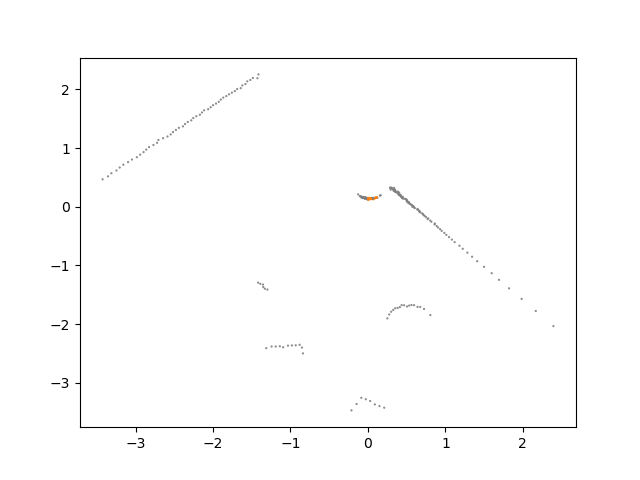
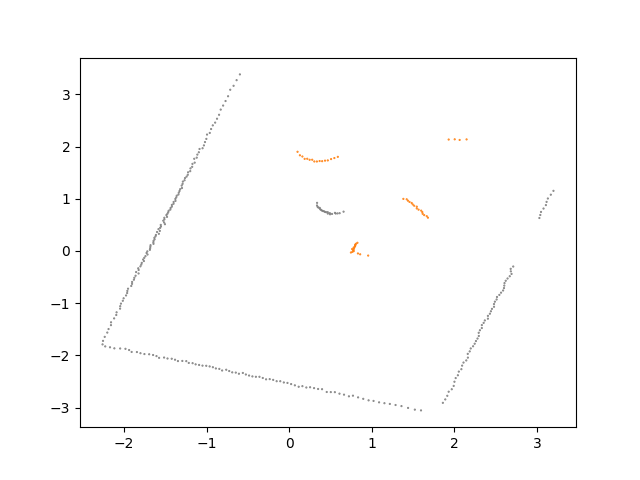
Started state registry

diff --git a/src/objectDetector.py b/src/objectDetector.py
@@ -21,11 +21,13 @@ class ObjectDetector:
         self.traj_pub = rospy.Publisher('trajectory', Path, queue_size=1000)
         self.traj_msg = Path()
 
+        self.precision = 0.01
+        self.places = 2
+
     def laser_callback(self, msg):
-        x, y = self.generate_pc(msg.ranges, msg.range_min, msg.range_max, msg.angle_increment)
-        clusters = self.segment_pc(x, y, msg.range_min)
-        classification = self.detect_objs(x, y, clusters)
-        self.plot_clusters(x, y, clusters, classification)
+        self.x, self.y = self.generate_pc(msg.ranges, msg.range_min, msg.range_max, msg.angle_increment)
+        self.clusters = self.segment_pc(self.x, self.y, msg.range_min)
+        self.plot_clusters(self.x, self.y, self.clusters)
 
     def odom_callback(self, msg):
         pose = PoseStamped()
@@ -49,70 +51,97 @@ class ObjectDetector:
 
         return x, y
 
+    def exclude_walls(self, x_, y_, clusters_):
+        x, y = [], []
+        tmp_x, tmp_y = [], []
+        clusters, tmp_clusters = [], []
+        cur_cluster = clusters_[0]
+        cur_cluster_size = 0
+        for x_coord, y_coord, elem in zip(x_, y_, clusters_):
+            if elem == cur_cluster:
+                cur_cluster_size += 1
+                tmp_x.append(x_coord)
+                tmp_y.append(y_coord)
+                tmp_clusters.append(elem)
+            else:
+                if cur_cluster_size < 15:
+                    x.extend(tmp_x)
+                    y.extend(tmp_y)
+                    clusters.extend(tmp_clusters)
+                tmp_x = []
+                tmp_y = []
+                tmp_clusters = []
+                cur_cluster_size = 1
+                cur_cluster = elem
+        if cur_cluster_size < 15:
+            x.extend(tmp_x)
+            y.extend(tmp_y)
+            clusters.extend(tmp_clusters)
+        return x, y, clusters
+
     def transform_to_img(self, x, y):
-        max_x = int(max(x))
-        min_x = int(min(x))
-        max_y = int(max(y))
-        min_y = int(min(y))
+        import math
 
-        length = max_x - min_x
-        height = max_y - min_y
+        min_x = round(min(x), self.places)
+        min_y = round(min(y), self.places)
 
-        image = np.zeros((length, height))
+        # Transform points to 0+ scale
+        x_, y_ = [], []
+        for x_coord, y_coord in zip(x, y):
+            x_coord = round(x_coord, self.places) + abs(min_x)
+            y_coord = round(y_coord, self.places) + abs(min_y)
+            x_.append(x_coord)
+            y_.append(y_coord)
 
-        for x_idx, y_idx in zip(x, y):
-            # Indexes must be integers
-            x_idx = int(x_idx)
-            y_idx = int(y_idx)
-            image[x_idx, y_idx] = 255
+        # Calculate length, height
+        max_x_ = max(x_)
+        max_y_ = max(y_)
 
-        return image
+        # Get up to desired precision
+        length = int(max_x_ / self.precision)
+        height = int(max_y_ / self.precision)
+        image = np.zeros((length + 1, height + 1), dtype=np.float16)
+
+        # Calculate buckets and image coords
+        bucket_cap_l = int(length / max_x_)
+        bucket_cap_h = int(height / max_y_)
+
+        # Create a dictionary to save correspondence image coordinates -> pointcloud coordinates
+        img_pc_coords = {}
+        for x_coord, y_coord in zip(x_, y_):
+            # Get buckets
+            x_bucket = int(x_coord)
+            y_bucket = int(y_coord)
+
+            x_idx = math.modf(x_coord)[0] * bucket_cap_l
+            y_idx = math.modf(y_coord)[0] * bucket_cap_h
+
+            x_img_coord = x_bucket * bucket_cap_l + int(x_idx)
+            y_img_coord = y_bucket * bucket_cap_h + int(y_idx)
+            
+            assert type(x_img_coord) is int
+            assert type(y_img_coord) is int
+            image[x_img_coord, y_img_coord] = 255
+            key = (x_img_coord, y_img_coord)
+            img_pc_coords[key] = (x_coord, y_coord)
+
+        return image, img_pc_coords
 
     def segment_pc(self, x, y, range_min):
         X = np.array((x, y)).T
 
-        from skimage.transform import hough_line, hough_line_peaks
-        image = self.transform_to_img(x, y)
-        tested_angles = np.linspace(-np.pi / 2, np.pi / 2, 360, endpoint=False)
-        h, theta, d = hough_line(image, theta=tested_angles)
-
-        # Generating figure 1
-        import matplotlib.pyplot as plt
-        from matplotlib import cm
-        fig, axes = plt.subplots(1, 3, figsize=(15, 6))
-        ax = axes.ravel()
-
-        ax[0].imshow(image, cmap=cm.gray)
-        ax[0].set_title('Input image')
-        ax[0].set_axis_off()
-
-        angle_step = 0.5 * np.diff(theta).mean()
-        d_step = 0.5 * np.diff(d).mean()
-        bounds = [np.rad2deg(theta[0] - angle_step),
-                np.rad2deg(theta[-1] + angle_step),
-                d[-1] + d_step, d[0] - d_step]
-        ax[1].imshow(np.log(1 + h), extent=bounds, cmap=cm.gray, aspect=1 / 1.5)
-        ax[1].set_title('Hough transform')
-        ax[1].set_xlabel('Angles (degrees)')
-        ax[1].set_ylabel('Distance (pixels)')
-        ax[1].axis('image')
-
-        ax[2].imshow(image, cmap=cm.gray)
-        ax[2].set_ylim((image.shape[0], 0))
-        ax[2].set_axis_off()
-        ax[2].set_title('Detected lines')
-
-        for _, angle, dist in zip(*hough_line_peaks(h, theta, d)):
-            (x0, y0) = dist * np.array([np.cos(angle), np.sin(angle)])
-            ax[2].axhline((x0, y0), slope=np.tan(angle + np.pi/2))
-
-        plt.tight_layout()
-        fig.savefig('./src/deep-rl-pusher/resources/look.png')
-        plt.close(fig)
-        
         from sklearn.cluster import DBSCAN
         cluster = DBSCAN(eps=range_min*2, min_samples=3).fit(X)
         return cluster.labels_
+
+    def find_cylinder(self, plot=False):
+        x, y, clusters = self.exclude_walls(self.x, self.y, self.clusters)
+        image, img_pc_coords = self.transform_to_img(x, y)
+        
+        if plot:
+            self.plot_pc_img(image)
+        cx, cy, radii = self.hough_transform(image)
+        return self.transform_area_to_pc(cx, cy, radii, img_pc_coords)
 
     def detect_objs(self, x, y, clusters):
         nr_clusters = (max(clusters) + 1)
@@ -130,28 +159,27 @@ class ObjectDetector:
         return classification
 
     # Return True if circle, False if line
-    def hough_transform(self, edges):
-        from skimage.transform import probabilistic_hough_line, hough_circle
-        from skimage.feature import peak_local_max
-        
-        #lines = probabilistic_hough_line(edges, threshold=10, line_length=5, line_gap=3)
-        hough_radii = np.arange(0.08, 1, 0.02)
-        lines = hough_circle(edges, hough_radii)
-        #print("Lines - {}".format(lines))
-        # TODO: check peak?
-        #print(len(list(lines)))
-        if list(lines):
-            #if len(lines) > 2:
-            #    return False
-            return True
-        else:
-            return False
+    def hough_transform(self, image, plot=False):
+        from skimage.transform import hough_circle, hough_circle_peaks
+        factor = 10**self.places
+        hough_radii = np.arange(0.08*2*factor, 0.5*2*factor, 0.02*2*factor)
+        res = hough_circle(image, hough_radii)
+        # Extract the peak as we only want the closest cylinder 
+        # (and the closest cylinder will have the largest amount of points and less noisy data)
+        accums, cx, cy, radii = hough_circle_peaks(res, hough_radii,
+                                        total_num_peaks=1)
+        if plot:
+            self.plot_hough_circle(image, cx, cy, radii)
+        return cx, cy, radii
 
-        # Another idea:
-        # Calculate curvature of the points in the cluster
-        # 1st : Sample 3 points from the cluster (first, last, middle)?
-        # 2nd : c (p1, p2, p3) = 4*A(area of the triangle created by the 3 points) / d(p1-p2)*d(p2-p3)*d(p3-p1)
-        # Curvature larger than a threshold is a line (lines are infinite curvatures)
+    def transform_area_to_pc(self, cx, cy, radii, img_pc_coords):
+        x = [], y = []
+        for img_coords, pc_coords in img_pc_coords.items():
+            # Point is in the selected area
+            if img_coords[0] in range(cx - radii, cx + radii) and img_coords[1] in range(cy - radii, cy + radii):
+                x.append(pc_coords[0])
+                y.append(pc_coords[1])
+        return np.array((x, y)).T        
 
     def calculate_point_dist(self, cluster, p):
         min_dist = 0
@@ -190,7 +218,7 @@ class ObjectDetector:
     def classify(self, edges):
         i = 0
         consensus = []
-        threshold = 12
+        threshold = 6
         while (i < 3):
             p1, p2, p3 = self.sample_cluster(edges)
             c = self.curvature(p1, p2, p3)
@@ -202,7 +230,12 @@ class ObjectDetector:
         if (np.sum(consensus) > 1) : return True
         else : return False
 
-    def plot_clusters(self, x, y, clusters, classification):
+    def calculate_nr_clusters(self, clusters):
+        nr_clusters = (max(clusters) + 1)
+        return nr_clusters - min(clusters)
+
+    def plot_clusters(self, x, y, clusters):
+    #def plot_clusters(self, x, y, clusters, classification):
         import matplotlib.pyplot as plt
         import matplotlib
         matplotlib.use('Agg')
@@ -216,7 +249,7 @@ class ObjectDetector:
         plt.close(fig)
 
         # TODO: clusters look ok but classification not??
-        markers = []
+        '''markers = []
         nr_clusters = (max(clusters) + 1)
         for i in range(min(clusters), nr_clusters):
             marker = 'tab:orange' if classification[i] else 'tab:gray'
@@ -229,6 +262,69 @@ class ObjectDetector:
         ax.scatter(x, y, s=.3, c=markers)
 
         fig.savefig('./src/deep-rl-pusher/resources/objects.png')
-        plt.close(fig)
+        plt.close(fig)'''
 
         # TODO Filter out world end points
+
+    def plot_hough_linear(self, image, theta, h, d):
+        # Generating figure 1
+        import matplotlib.pyplot as plt
+        from matplotlib import cm
+        from skimage.transform import hough_line_peaks
+
+        fig, axes = plt.subplots(1, 3, figsize=(15, 6))
+        ax = axes.ravel()
+
+        ax[0].imshow(image, cmap=cm.gray)
+        ax[0].set_title('Input image')
+        ax[0].set_axis_off()
+
+        angle_step = 0.5 * np.diff(theta).mean()
+        d_step = 0.5 * np.diff(d).mean()
+        bounds = [np.rad2deg(theta[0] - angle_step),
+                np.rad2deg(theta[-1] + angle_step),
+                d[-1] + d_step, d[0] - d_step]
+        ax[1].imshow(np.log(1 + h), extent=bounds, cmap=cm.gray, aspect=1 / 1.5)
+        ax[1].set_title('Hough transform')
+        ax[1].set_xlabel('Angles (degrees)')
+        ax[1].set_ylabel('Distance (pixels)')
+        ax[1].axis('image')
+
+        ax[2].imshow(image, cmap=cm.gray)
+        ax[2].set_ylim((image.shape[0], 0))
+        ax[2].set_axis_off()
+        ax[2].set_title('Detected lines')
+
+        for _, angle, dist in zip(*hough_line_peaks(h, theta, d)):
+            (x0, y0) = dist * np.array([np.cos(angle), np.sin(angle)])
+            ax[2].axline((x0, y0), slope=np.tan(angle + np.pi/2))
+
+        plt.tight_layout()
+        fig.savefig('./src/deep-rl-pusher/resources/lines.png')
+        plt.close(fig)
+
+    def plot_hough_circle(self, image, cx, cy, radii):
+        # Generating figure 1
+        import matplotlib.pyplot as plt
+        from skimage.draw import circle_perimeter
+
+        fig, ax = plt.subplots(ncols=1, nrows=1, figsize=(10, 4))
+        for center_y, center_x, radius in zip(cy, cx, radii):
+            circy, circx = circle_perimeter(center_y, center_x, int(math.ceil(radius)),
+                                            shape=image.shape)
+            image[circy, circx] = 50
+
+        ax.set_title('Circle Hough')
+        ax.imshow(image, cmap=plt.cm.gray)
+        plt.tight_layout()
+        fig.savefig('./src/deep-rl-pusher/resources/circles.png')
+        plt.close(fig)
+
+    def plot_pc_img(self, image):
+        import matplotlib.pyplot as plt
+
+        fig, ax = plt.subplots(ncols=1, nrows=1, figsize=(10, 4))
+        ax.imshow(image)
+        plt.tight_layout()
+        fig.savefig('./src/deep-rl-pusher/resources/pc_image.png')
+        plt.close(fig)

diff --git a/src/main.py b/src/main.py
@@ -2,13 +2,17 @@
 import rospy
 
 from objectDetector import ObjectDetector
+from src.deepPusher import DeepPusher
 
 if __name__ == '__main__':
     rospy.init_node('object-detector', anonymous=True)
     rate = rospy.Rate(10) # 10hz
+    counter = 0
+    pusher = DeepPusher()
     det = ObjectDetector()
 
     while not rospy.is_shutdown():
-        rospy.loginfo("Inside Loop")
         rospy.spin()
+        pusher.state_manager(counter)
+        counter += 1
         rate.sleep()

diff --git a/src/deepPusher.py b/src/deepPusher.py
@@ -1,0 +1,17 @@
+#!/usr/bin/env python3
+import rospy
+
+class DeepPusher:
+    def __init__(self, objectDetector):
+        self.state = 0
+        self.frequency = 10
+        self.objDet = objectDetector
+
+    def state_manager(self, counter):
+        if counter > 0 and counter % self.frequency:
+            self.state = 1
+            self.register_cylinder()
+    
+    def register_cylinder(self):
+        self.cylinder = self.objDet.find_cylinder()
+        self.state = 2

diff --git a/src/navigator.py b/src/navigator.py
@@ -1,0 +1,2 @@
+#!/usr/bin/env python3
+import rospy
